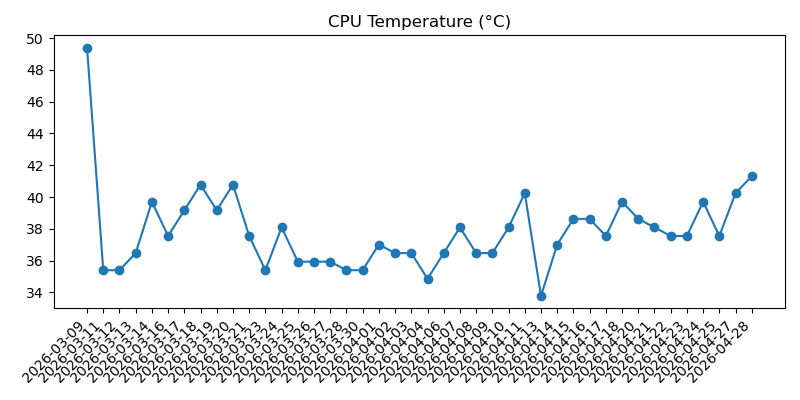
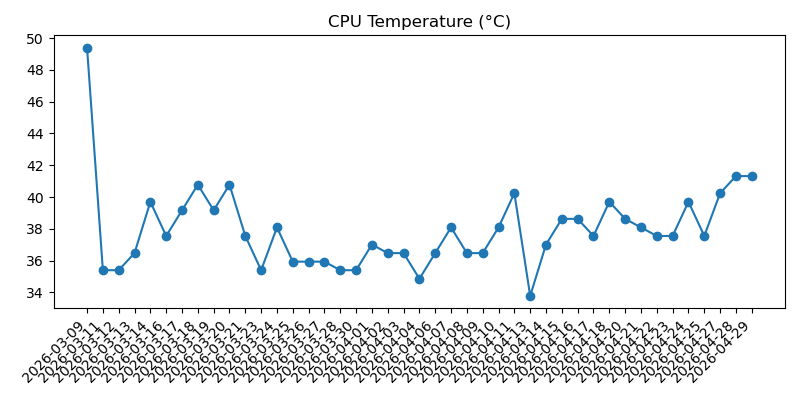
Update Pi daily status

Changed region(s): [[0.0625, 0.42, 0.9375, 0.96]]

diff --git a/2026-04.md b/2026-04.md
@@ -816,3 +816,37 @@
 - Overall: Warning
 - Warning: Power issue detected: Undervoltage has occurred; Throttling has occurred
 
+## 2026-04-29 15:30:27
+
+### Machine
+- Uptime: up 1 week, 1 day, 17 hours, 16 minutes
+- CPU load (1m, 5m, 15m): 0.00, 0.00, 0.00
+- RAM used: 161 MB / 921 MB (17.4%)
+- Disk used (/): 3.5 GB / 28.8 GB (12.2%)
+- Free disk space (/): 24.1 GB
+- CPU temp: 41.3°C
+- Voltage / throttling: Undervoltage has occurred; Throttling has occurred
+
+### Reachability
+- Internet check (1.1.1.1): Reachable (3.2 ms)
+
+### Weather
+- Madrid:
+  - Condition: Nuboso con tormenta
+  - Max temp: 19°C
+  - Min temp: 13°C
+  - Feels like: 16°C
+  - Chance of rain: 100%
+  - Warnings: None reported
+- Barcelona:
+  - Condition: Despejado
+  - Max temp: 23°C
+  - Min temp: 18°C
+  - Feels like: 20°C
+  - Chance of rain: 10%
+  - Warnings: None reported
+
+### Health
+- Overall: Warning
+- Warning: Power issue detected: Undervoltage has occurred; Throttling has occurred
+
